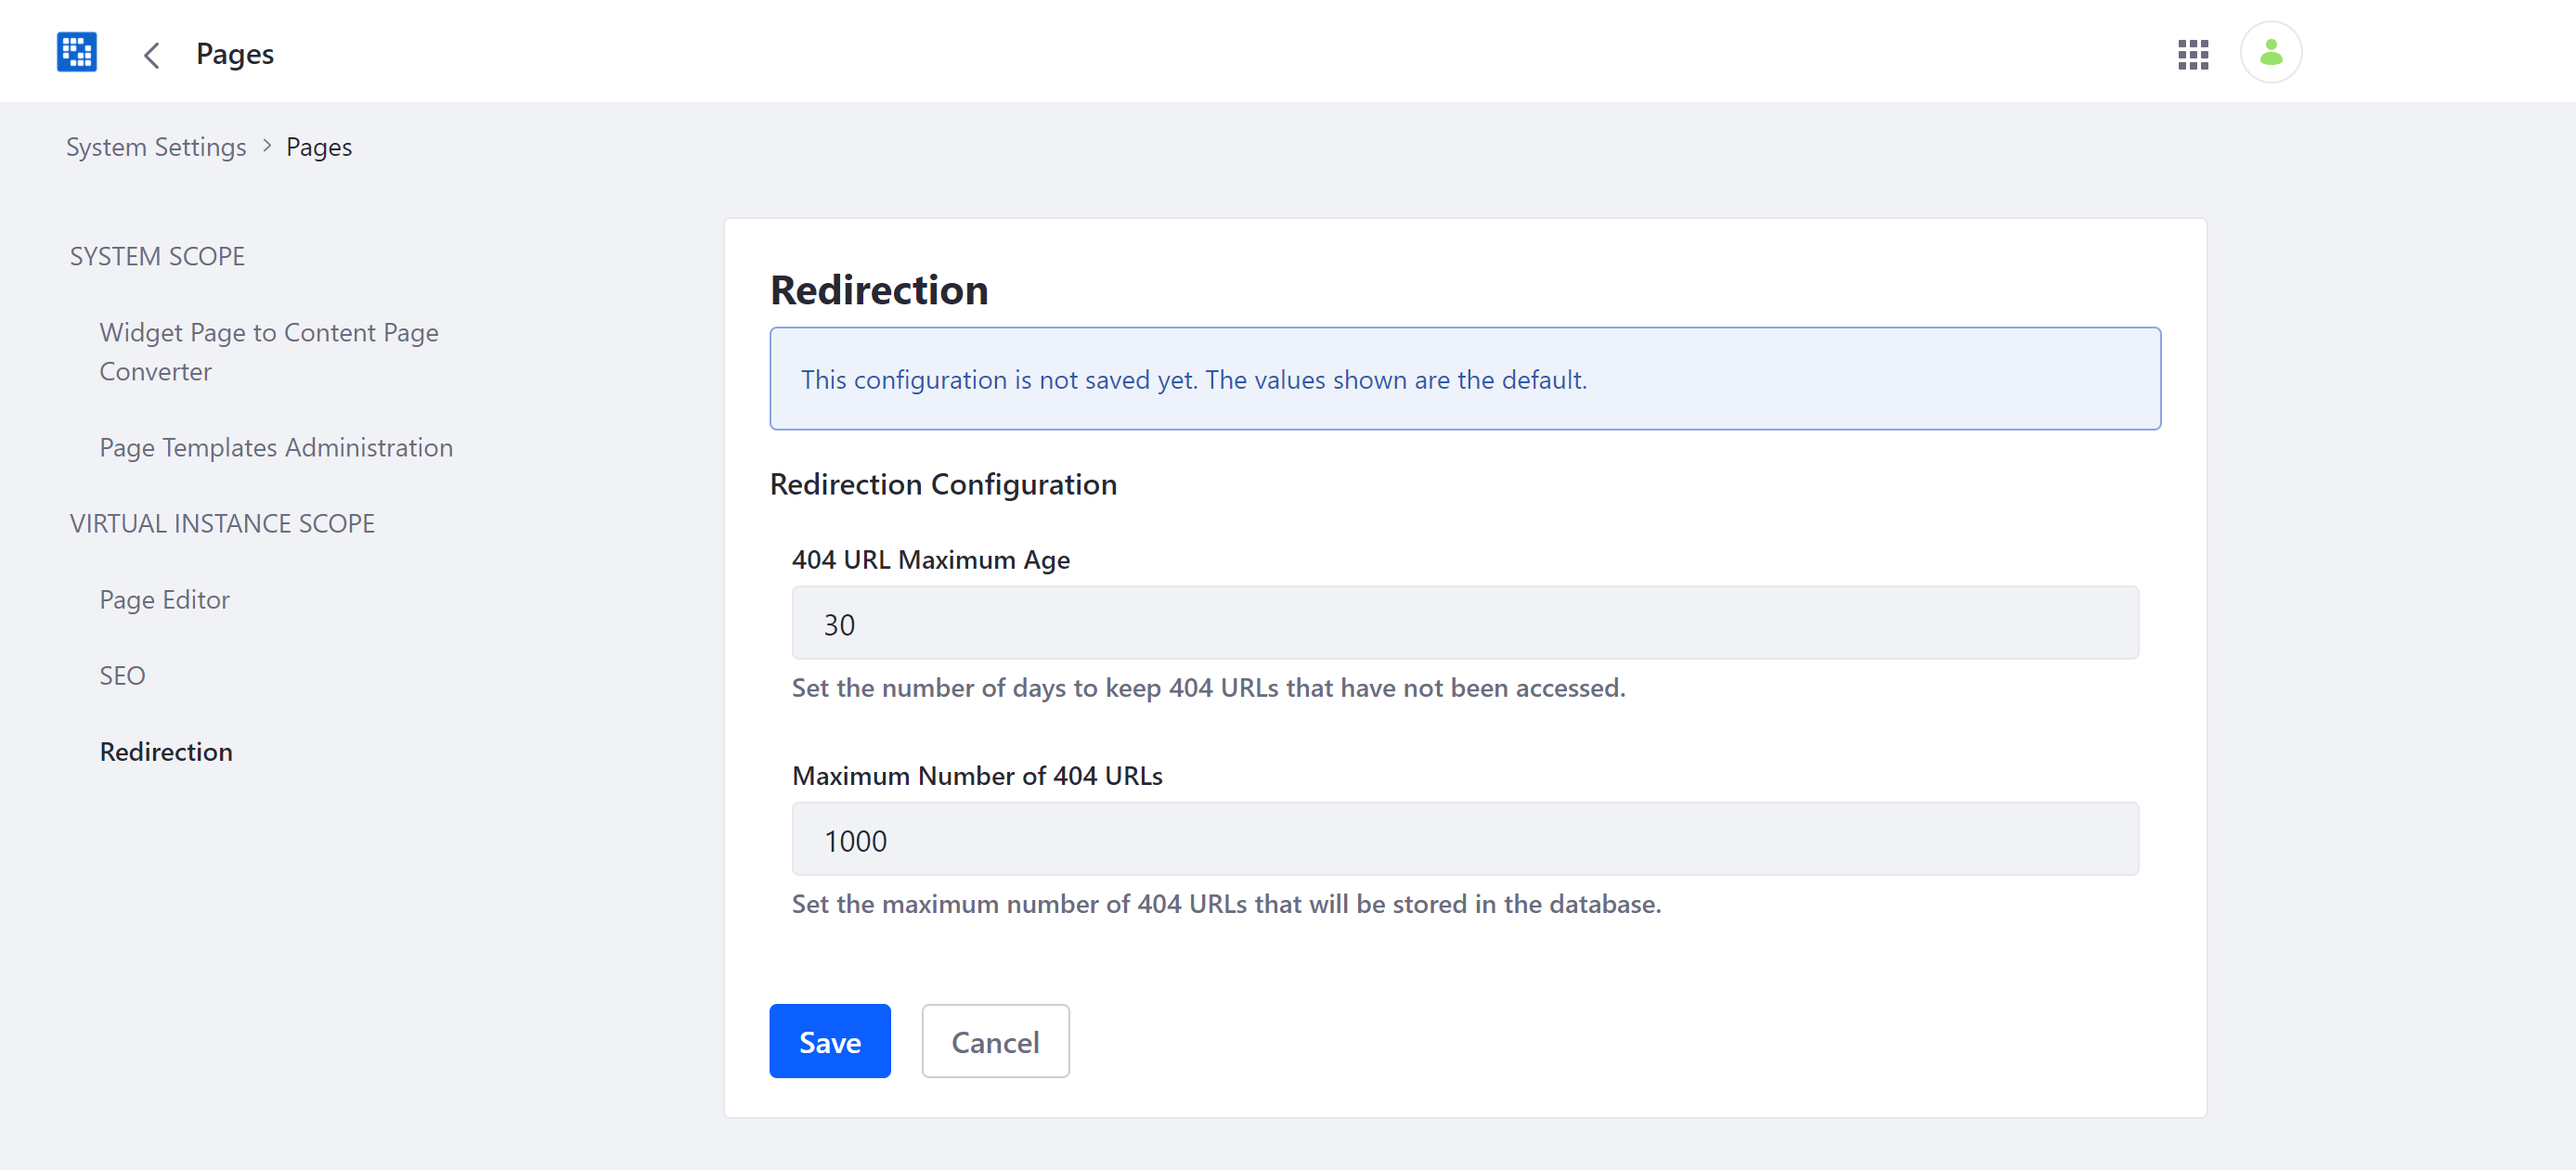
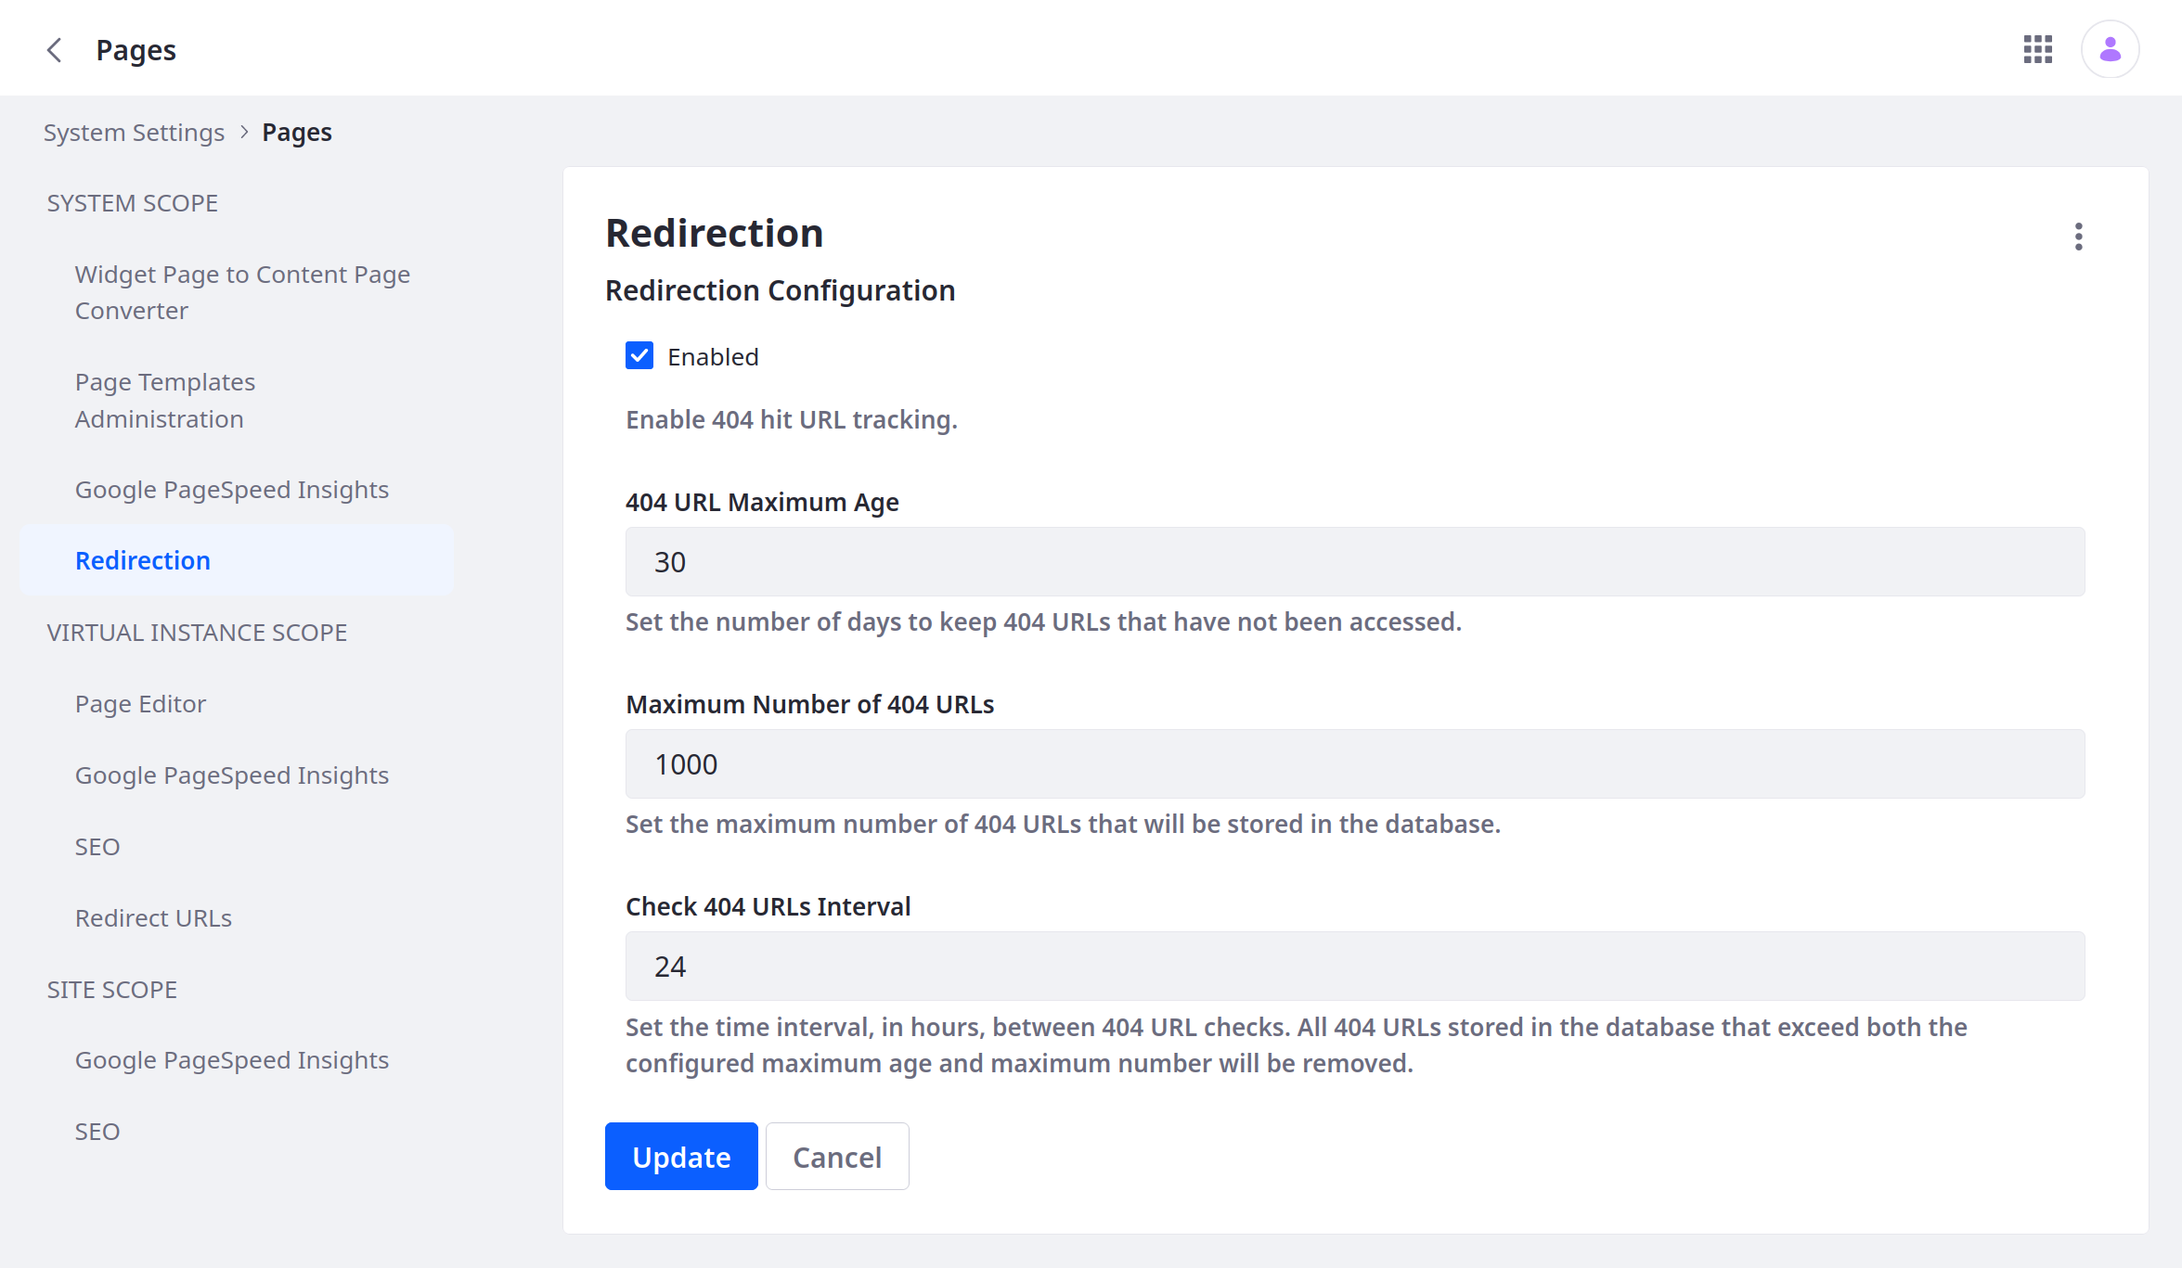
LRDOCS-10319 enabling 404 tracking

diff --git a/docs/dxp/latest/en/site-building/site-settings/managing-site-urls/using-the-redirection-tool.md b/docs/dxp/latest/en/site-building/site-settings/managing-site-urls/using-the-redirection-tool.md
@@ -4,14 +4,18 @@
 
 Maintaining URL integrity is important for any Site. Liferay DXP's *Redirection* tool provides a convenient and integrated way to manage HTTP redirects and track 404 errors. With this tool, you can easily avoid and fix broken links, improving both user experience and SEO.
 
-To access it, open the Product menu, and go to *Configuration* &rarr; *Redirection*.
+To access it, open the Site Menu (![Site Menu](../../../images/icon-product-menu.png)), and go to *Configuration* &rarr; *Redirection*.
 
-![Go to the Redirection page in the Product menu.](./using-the-redirection-tool/images/01.png)
+![Go to the Redirection page in the Site Menu.](./using-the-redirection-tool/images/01.png)
 
 Here, the Redirection tool's functionalities are organized into two tabs: *Redirects* and *404 URLs*.
 
 * [Redirects](#redirects)
 * [404 URLs](#404-urls)
+
+```{important}
+For Liferay DXP/Portal 7.4+, 404 tracking is disabled by default. To use this feature, you must [enable 404 tracking](#enabling-404-tracking). This enables both 404 tracking and the 404 URL management tab in the Redirection application.
+```
 
 ## Redirects
 
@@ -72,6 +76,10 @@ Changes made to a redirect may not immediately display in browsers that have cac
 
 ## 404 URLs
 
+```{note}
+To access this tab for Liferay DXP/Portal 7.4+, you must first [enable 404 tracking](#enabling-404-tracking).
+```
+
 In the *404 URLs* tab, you can view and manage Site requests leading to 404 errors. DXP catalogs each error, so you can assess the cause of the errors and quickly resolve any issues.
 
 ![You can view and manage 404 URLs.](./using-the-redirection-tool/images/10.png)
@@ -102,10 +110,35 @@ Finish filling out the form, and click on *Create* to save the new redirect.
 
 ### Configuring 404 Settings
 
-You can determine how long 404 URLs are retained between requests, as well as the maximum number of 404 URLs stored in your database.
+You can determine how long 404 URLs are retained between requests, the maximum number of 404 URLs stored in your database, and the interval between 404 URL checks.
 
 To do so, open the Control Panel and go to *System Settings* (or *Instance Settings*) &rarr; *Pages* &rarr; *Redirection*, under Virtual Instance Scope.
 
-By default, the *404 URL Maximum Age* is set to 30 days, while the *Maximum Number of 404 URLs* is set to 1000 entries.
+By default, the *404 URL Maximum Age* is set to 30 days, the *Maximum Number of 404 URLs* is set to 1000 entries, and the system checks for 404 URLs every 24 hours.
 
 ![Determine how long and how many 404 URLs are retained](./using-the-redirection-tool/images/14.png)
+
+## Enabling 404 Tracking
+
+> For Liferay DXP/Portal 7.4+
+
+Follow these steps to activate the 404 URLs tab in the Redirects application and enable background tracking for 404 hits:
+
+1. Open the *Global Menu* (![Global Menu](../../../images/icon-applications-menu.png)), click the *Control Panel* tab, and go to *System Settings* &rarr; *Pages* &rarr; *Redirection*.
+
+   ![Check Enabled and click Save.](./using-the-redirection-tool/images/15.png)
+
+1. Check *Enabled*.
+
+1. Click *Update*.
+
+Once enabled, you can access the 404 URL management tab in the Redirects application.
+
+```{important}
+Enabling or disabling the application does not affect data stored in the database. If disabled, you can reenable the feature to access your data at any time.
+```
+
+## Additional Information
+
+* [Configuring Virtual Hosts Site URLs](./configuring-virtual-hosts-site-urls.md)
+* [Configuring Your Site's Friendly URLs](./configuring-your-sites-friendly-url.md)
